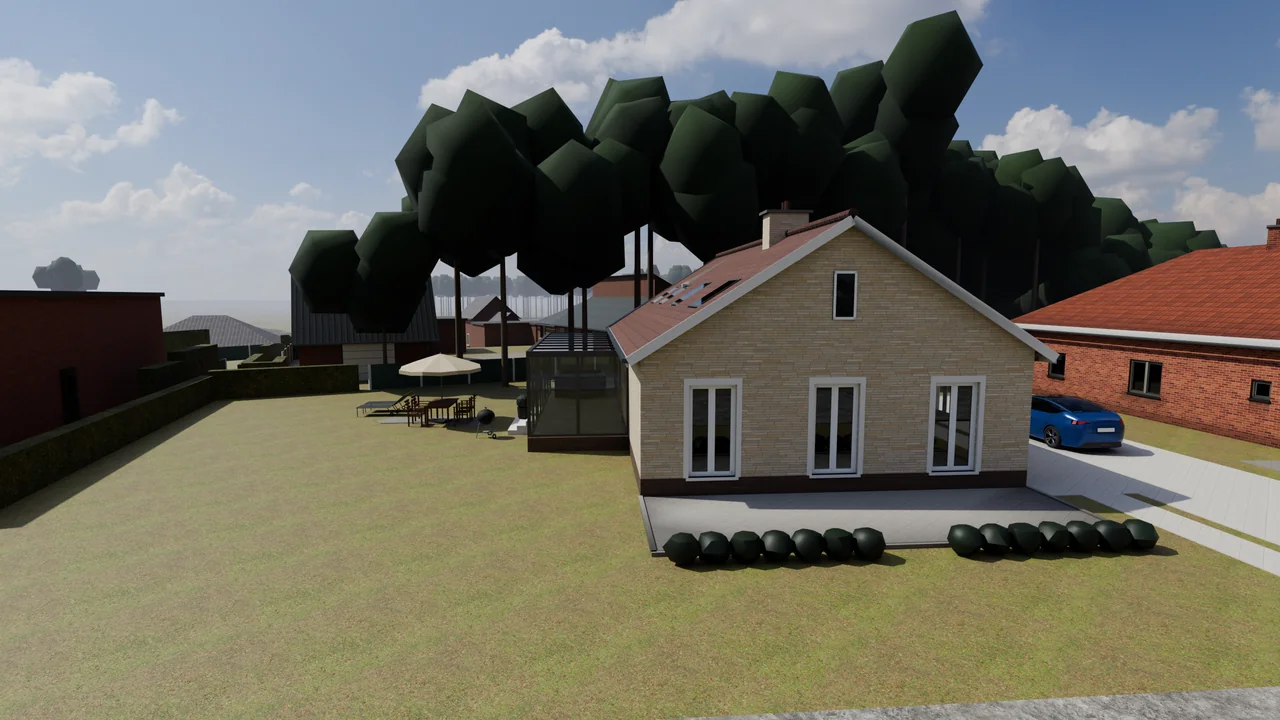
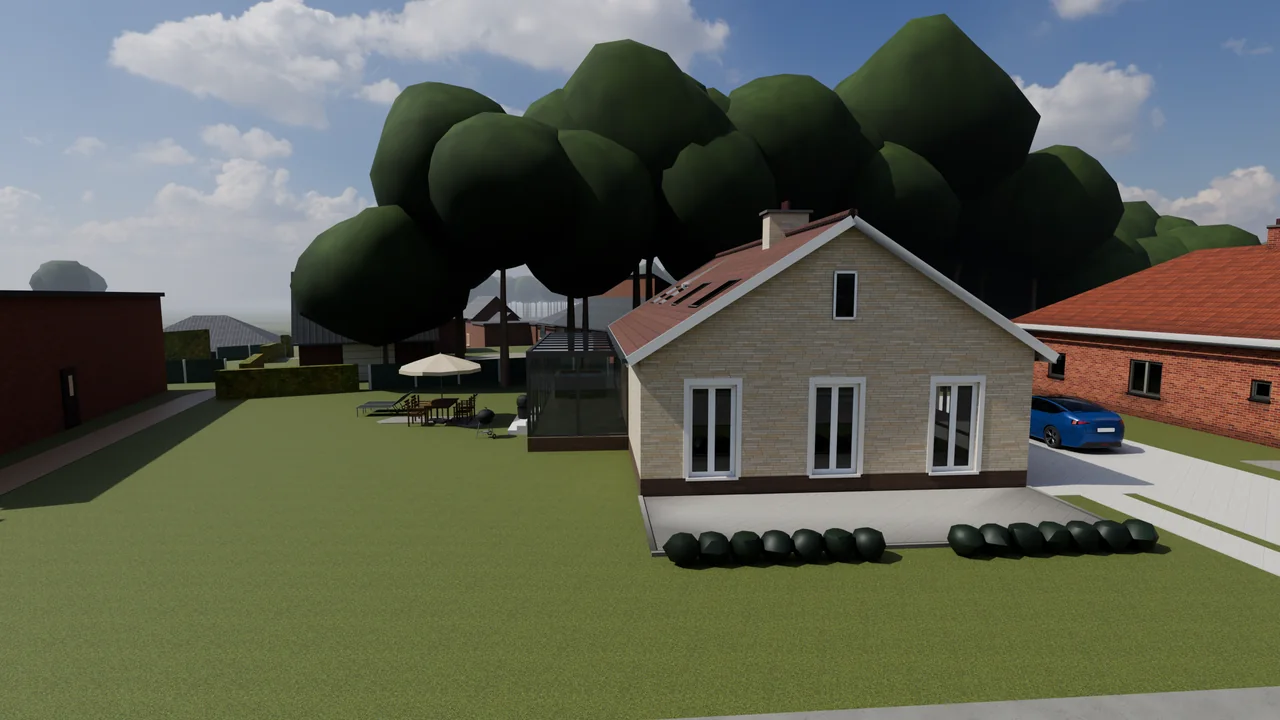
Start screen: new stills from the game as it is now, with the school's playground and the Sparrenhof
Yoshi asked for the start screen's stills rendered again, with one of the school and one of the
Sparrenhof. All five are rendered in Cycles from today's game (town, house, bungalow, school,
Sparrenhof) and are in the slideshow with English and Dutch captions. render_still.py renders on
the graphics card when there is one, and gives leaves (tagged by export_scene.js) a leafy look and
light through them: the new tree crowns came out as smooth near-black balls.

Claude-Session: https://claude.ai/code/session_01SZHxLkhmeGhuPLRZfx6f4A

diff --git a/web/public/slides/slides.js b/web/public/slides/slides.js
@@ -1,5 +1,6 @@
 // The slideshow of renders behind the start screen and the site's other pages: the town with its
-// church and school, the house, the bungalow (tools/still/, Blender). Any element with
+// church and school, the house, the bungalow, the school's playground and the café Sparrenhof
+// (tools/still/, Blender). Any element with
 // data-slides becomes one; class "bg" fills the window behind the page, class "hero" is a band at
 // the top. Back, pause and next buttons and a dot per slide go into the element, or into
 // [data-slides-controls] when the page has one (a footer, so they never cover the page on a phone).
@@ -12,6 +13,8 @@
     { src: '/start/town', focus: '72% 50%', nl: 'Smetlede: de kerk en de school', en: 'Smetlede: the church and the school' },
     { src: '/start/house', focus: '58% 45%', nl: 'Het nieuwe huis', en: 'The new house' },
     { src: '/start/bungalow', focus: '66% 50%', nl: 'De bungalow', en: 'The bungalow' },
+    { src: '/start/school', focus: '60% 50%', nl: 'Smetlede: de speelplaats van de school', en: "Smetlede: the school's playground" },
+    { src: '/start/sparrenhof', focus: '50% 50%', nl: 'Café Sparrenhof aan het bos', en: 'Café Sparrenhof by the wood' },
   ];
   const WORDS = {
     nl: { prev: 'Vorige', next: 'Volgende', pause: 'Pauzeren', play: 'Afspelen', go: 'Naar beeld {n}: {c}', label: 'Beelden uit het spel' },

diff --git a/tools/still/export_scene.js b/tools/still/export_scene.js
@@ -31,6 +31,8 @@
     if (mats.some((m) => m && m.side === 1)) { o.visible = false; unseen.push(o); return; }
     // Birds, flies and sparks drawn as instances with attributes of their own: glTF can't carry those either.
     if (o.geometry?.isInstancedBufferGeometry || Object.values(o.geometry?.attributes ?? {}).some((x) => x.isInstancedBufferAttribute)) { o.visible = false; unseen.push(o); return; }
+    // Leaves (tree crowns, hedges): render_still.py gives them a leafy look of their own.
+    if (o.userData.material === 'hedge' || /foliage|hedge/i.test(o.name)) for (const m of mats) if (m) m.userData = { ...m.userData, foliage: true };
     if (o.isInstancedMesh && o.instanceColor) {
       // Colour per instance (hedge clumps): the range, for Blender to pick from per object.
       const c = o.instanceColor.array;

diff --git a/tools/still/render_still.py b/tools/still/render_still.py
@@ -253,6 +253,41 @@ for mat in bpy.data.materials:
         else:
             mul.inputs[1].default_value = base.default_value[:3]
         nt.links.new(mul.outputs[0], base)
+    if bsdf and mat.get("foliage") and bsdf.inputs["Base Color"].links:
+        # Leaves (tree crowns and hedge clumps): the game's leaf shader (world/leaves.ts) lightens their dark vertex
+        # greens and breaks them into clumps of leaves; here a leaf-sized noise does that, in colour and relief, and
+        # some light comes through them. Without it the crowns rendered as smooth near-black balls.
+        tex = nt.nodes.new("ShaderNodeTexNoise")
+        tex.inputs["Scale"].default_value = 3.5
+        tex.inputs["Detail"].default_value = 6.0
+        geo = nt.nodes.new("ShaderNodeTexCoord")
+        nt.links.new(geo.outputs["Object"], tex.inputs["Vector"])
+        ramp = nt.nodes.new("ShaderNodeMapRange")
+        nt.links.new(tex.outputs["Fac"], ramp.inputs["Value"])
+        ramp.inputs["From Min"].default_value, ramp.inputs["From Max"].default_value = 0.3, 0.7
+        ramp.inputs["To Min"].default_value, ramp.inputs["To Max"].default_value = 1.6, 3.4
+        lift = nt.nodes.new("ShaderNodeVectorMath")
+        lift.operation = "SCALE"
+        base = bsdf.inputs["Base Color"]
+        nt.links.new(base.links[0].from_socket, lift.inputs[0])
+        nt.links.new(ramp.outputs["Result"], lift.inputs["Scale"])
+        nt.links.new(lift.outputs[0], base)
+        bump = nt.nodes.new("ShaderNodeBump")
+        bump.inputs["Strength"].default_value = 0.6
+        nt.links.new(tex.outputs["Fac"], bump.inputs["Height"])
+        nt.links.new(bump.outputs["Normal"], bsdf.inputs["Normal"])
+        bsdf.inputs["Roughness"].default_value = 0.85
+        bsdf.inputs["Subsurface Weight"].default_value = 0.15
+        # Light through the leaves: seen from under a crown against the sky, a solid ball would be black.
+        out = next((n for n in nt.nodes if n.type == "OUTPUT_MATERIAL" and n.is_active_output), None)
+        if out and out.inputs["Surface"].links and out.inputs["Surface"].links[0].from_node == bsdf:
+            through = nt.nodes.new("ShaderNodeBsdfTranslucent")
+            nt.links.new(lift.outputs[0], through.inputs["Color"])
+            mix = nt.nodes.new("ShaderNodeMixShader")
+            mix.inputs["Fac"].default_value = 0.35
+            nt.links.new(bsdf.outputs[0], mix.inputs[1])
+            nt.links.new(through.outputs[0], mix.inputs[2])
+            nt.links.new(mix.outputs[0], out.inputs["Surface"])
     haze_on(mat)
 print(f"{len(bpy.data.materials)} materials: {rebuilt} with the game's textures, {glass} glass; {len(images)} texture files")
 
@@ -267,6 +302,21 @@ if zoom:
     cam.data.shift_x, cam.data.shift_y = sx, sy
 scene.render.engine = "CYCLES"
 scene.cycles.device = "CPU"
+# The graphics card when Cycles can use one (OptiX first, as tools/bake/bake_buildings.py): much faster.
+prefs = bpy.context.preferences.addons["cycles"].preferences
+for kind in ("OPTIX", "CUDA", "HIP", "METAL"):
+    try:
+        prefs.compute_device_type = kind
+        prefs.get_devices()
+    except TypeError:
+        continue
+    gpus = [d for d in prefs.devices if d.type == kind]
+    if gpus:
+        for d in prefs.devices:
+            d.use = d.type == kind
+        scene.cycles.device = "GPU"
+        print("rendering on", kind, [d.name for d in gpus])
+        break
 if os.environ.get("STILL_THREADS"):  # leave cores free for other work
     scene.render.threads_mode = "FIXED"
     scene.render.threads = int(os.environ["STILL_THREADS"])
